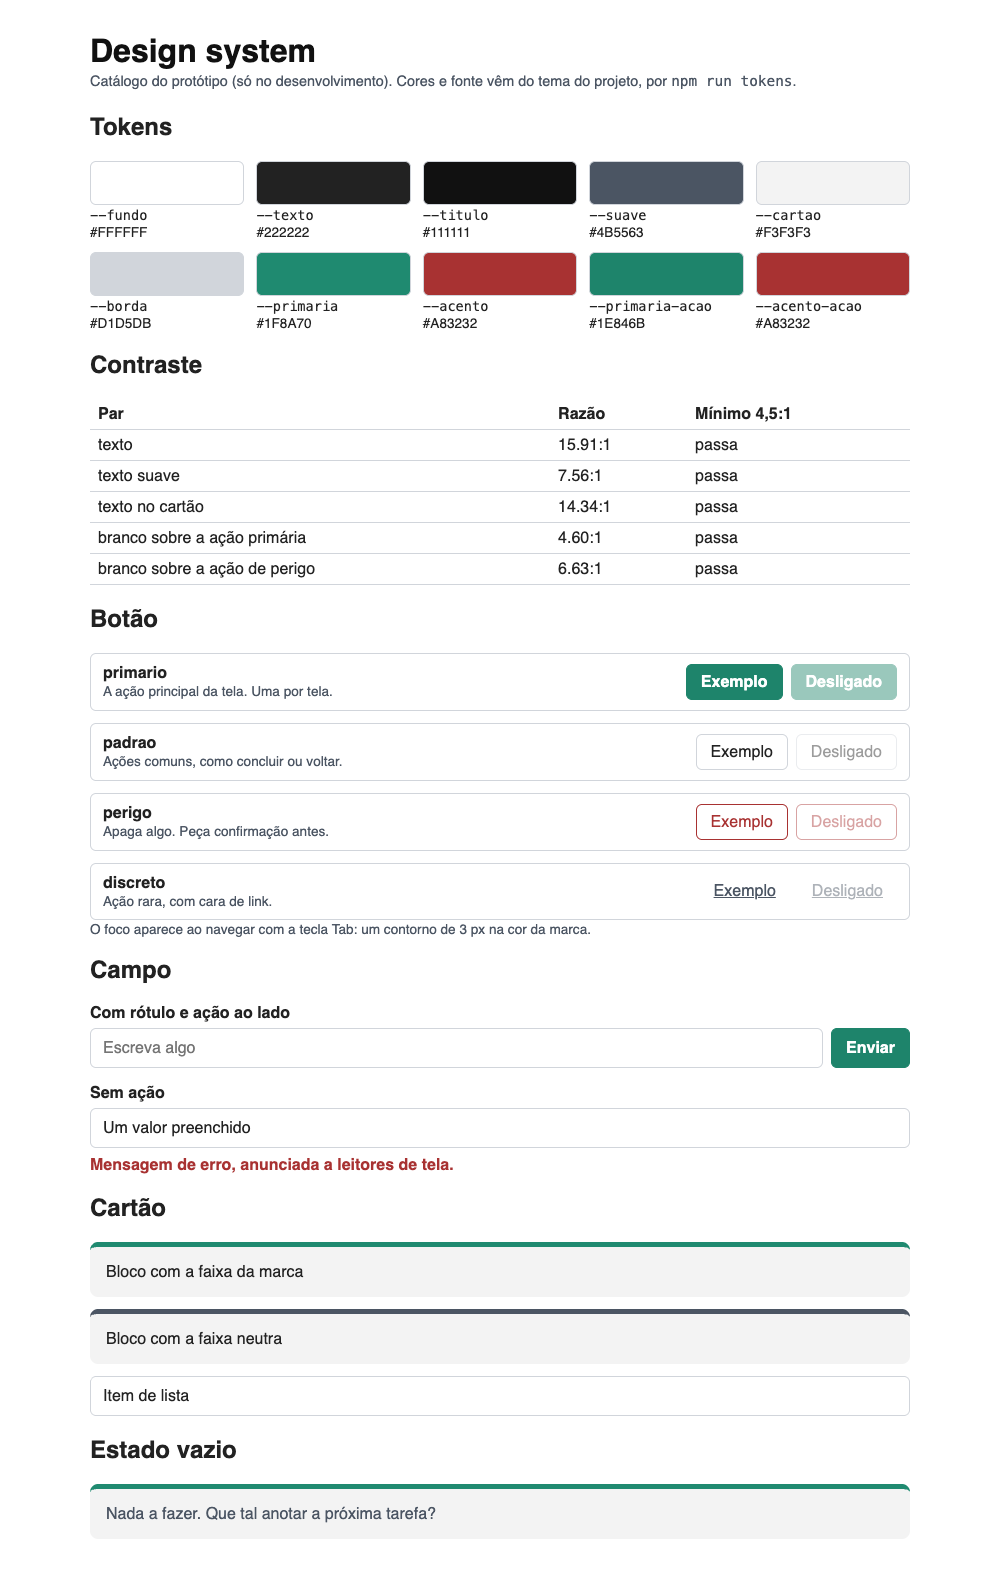
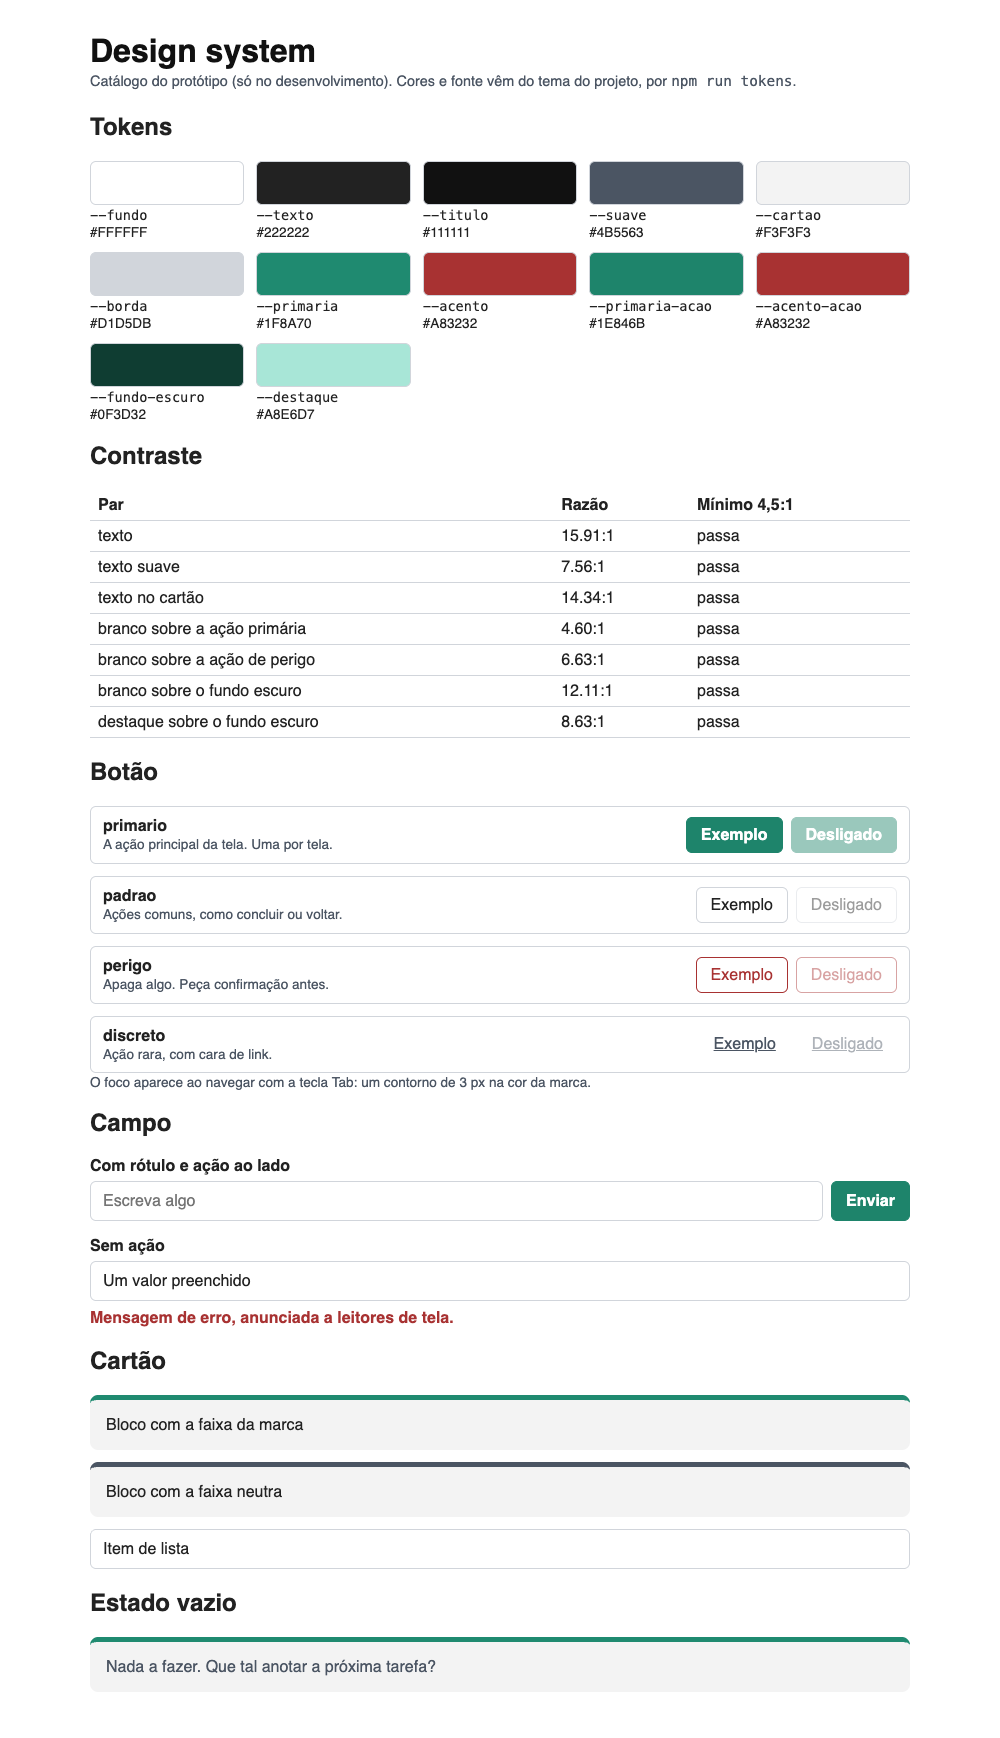
Design system do protótipo: documentação e as cores do tema nos slides e no carrossel
AGENTS.md e guias/design-system.md passam a sugerir o design system em todo
protótipo (tokens gerados do tema, componentes em src/ui/, catálogo /ds,
contraste e toque). O tema exemplo-todo declara fundoEscuro e destaque, que
viram tokens e o fundo verde dos slides e dos cards; o catálogo confere o
contraste desses pares.

diff --git a/tools/tema-tokens.js b/tools/tema-tokens.js
@@ -9,6 +9,8 @@
 //
 // Os tokens vêm de "colors" do tema (e "font"); o que o tema não declara usa um padrão. Para os botões preenchidos
 // (texto branco sobre a cor), a cor "de ação" é a do tema escurecida só até ter contraste de 4,5:1 com o branco.
+// Os slides e os carrosséis usam as mesmas cores do tema; "fundoEscuro" (fundo dos slides e cards escuros) e "destaque"
+// (links e detalhes sobre o escuro) também viram tokens, para o design system e os materiais ficarem alinhados.
 // Opcionalmente, o tema pode ter "prototipo": { "fundo": "FFFFFF", "suave": "4B5563" } para ajustar o que não tem
 // equivalente nos documentos.
 
@@ -81,6 +83,8 @@ const t = {
   cartao: hex(cores.calloutFill || cores.tableStripe || "F3F3F3"),
   borda: hex(cores.border || "D1D5DB"),
   fundo,
+  fundoEscuro: hex(cores.fundoEscuro || "000000"),
+  destaque: hex(cores.destaque || "FFFFFF"),
 };
 t.primariaAcao = escurecerAte(t.primaria, 4.5);
 t.acentoAcao = escurecerAte(t.acento, 4.5);
@@ -104,6 +108,9 @@ const css = `/* Gerado por tools/tema-tokens.js a partir do tema "${nomeDoTema}"
   --primaria-acao: #${t.primariaAcao};
   --acento-acao: #${t.acentoAcao};
   --sobre-acao: #ffffff;
+  /* Fundo escuro e cor de destaque sobre ele: os mesmos dos slides e dos carrosséis. */
+  --fundo-escuro: #${t.fundoEscuro};
+  --destaque: #${t.destaque};
 }
 `;
 
@@ -118,6 +125,8 @@ const pares = [
   ["branco sobre a cor de ação", "FFFFFF", t.primariaAcao],
   ["branco sobre a cor de perigo", "FFFFFF", t.acentoAcao],
   ["cor de perigo sobre o fundo", t.acentoAcao, t.fundo],
+  ["branco sobre o fundo escuro", "FFFFFF", t.fundoEscuro],
+  ["destaque sobre o fundo escuro", t.destaque, t.fundoEscuro],
 ];
 const ruins = pares.filter(([, a, b]) => contraste(a, b) < 4.5);
 

diff --git a/projetos/exemplo-todo/prototipo/src/ui/Catalogo.tsx b/projetos/exemplo-todo/prototipo/src/ui/Catalogo.tsx
@@ -4,7 +4,7 @@ import { Alerta, Botao, Campo, Cartao, EstadoVazio, type VarianteBotao } from ".
 // O catálogo do design system (só no desenvolvimento, em /ds): cada token e cada componente nos seus estados, como
 // documentação viva. Serve para ver a identidade do tema aplicada, conferir contraste e tirar prints.
 
-const TOKENS = ["fundo", "texto", "titulo", "suave", "cartao", "borda", "primaria", "acento", "primaria-acao", "acento-acao"] as const;
+const TOKENS = ["fundo", "texto", "titulo", "suave", "cartao", "borda", "primaria", "acento", "primaria-acao", "acento-acao", "fundo-escuro", "destaque"] as const;
 
 const VARIANTES: { id: VarianteBotao; uso: string }[] = [
   { id: "primario", uso: "A ação principal da tela. Uma por tela." },
@@ -28,6 +28,8 @@ const PARES: [string, string, string][] = [
   ["texto no cartão", "texto", "cartao"],
   ["branco sobre a ação primária", "#FFFFFF", "primaria-acao"],
   ["branco sobre a ação de perigo", "#FFFFFF", "acento-acao"],
+  ["branco sobre o fundo escuro", "#FFFFFF", "fundo-escuro"],
+  ["destaque sobre o fundo escuro", "destaque", "fundo-escuro"],
 ];
 
 export function Catalogo() {

diff --git a/projetos/exemplo-todo/prototipo/e2e/jornadas.spec.ts b/projetos/exemplo-todo/prototipo/e2e/jornadas.spec.ts
@@ -71,6 +71,6 @@ test("o catálogo do design system mostra tokens, contraste e componentes", asyn
   await expect(page.getByText("--primaria-acao")).toBeVisible();
   // Todo par de cores do catálogo passa no contraste mínimo.
   await expect(page.getByRole("cell", { name: "NÃO passa" })).toHaveCount(0);
-  await expect(page.getByRole("cell", { name: "passa", exact: true })).toHaveCount(5);
+  await expect(page.getByRole("cell", { name: "passa", exact: true })).toHaveCount(7);
   await expect(page.getByRole("button", { name: "Exemplo" })).toHaveCount(4);
 });

diff --git a/projetos/exemplo-todo/prototipo/src/tokens.css b/projetos/exemplo-todo/prototipo/src/tokens.css
@@ -15,4 +15,7 @@
   --primaria-acao: #1E846B;
   --acento-acao: #A83232;
   --sobre-acao: #ffffff;
+  /* Fundo escuro e cor de destaque sobre ele: os mesmos dos slides e dos carrosséis. */
+  --fundo-escuro: #0F3D32;
+  --destaque: #A8E6D7;
 }

diff --git a/AGENTS.md b/AGENTS.md
@@ -34,7 +34,7 @@ ideia/
 │   ├── iniciativa.txt, businessmodelcanvas.txt, 10-20-30.txt, pdi.txt, pitch.txt
 │   ├── tldr.txt              resumo (TL;DR): citação no topo do documento e apresentação curta
 │   └── divulgacao.txt        material de divulgação: carrossel de redes sociais, a partir do pitch e do resumo
-├── guias/                    [base] textos de apoio sobre como fazer bem uma coisa (ex.: pitch.md, slides.md, slides-zen-lessig.md, video-demonstracao.md e seguranca.md)
+├── guias/                    [base] textos de apoio sobre como fazer bem uma coisa (ex.: pitch.md, slides.md, slides-zen-lessig.md, video-demonstracao.md, seguranca.md e design-system.md)
 ├── temas/                    [base e conteúdo] identidade visual; uma pasta por tema
 │   └── <tema>/               tema.json (cores, fontes, logo, rodapé, opções) e, se houver, base.docx, referencia.pdf e slides.css
 │       neutro (base dos temas simples), generico (padrão), wildtech (exemplo de tema com marca),
@@ -120,7 +120,7 @@ Passos:
    - título da iniciativa;
    - pessoa responsável, com nome e sobrenome (e as outras pessoas envolvidas, se houver);
    - período de acompanhamento e data limite (pode ser "A definir");
-   - se o projeto é um **software** e precisa de um **protótipo** (artefato persistente; ver "Protótipos"). Se sim, proponha a stack padrão e confirme;
+   - se o projeto é um **software** e precisa de um **protótipo** (artefato persistente; ver "Protótipos"). Se sim, proponha a stack padrão, **com o design system** (ver "Design system do protótipo"), e confirme;
    - projeto Jira ou repositório GitHub relacionado, se houver (ver "Integrações opcionais").
 7. **Pedir o material de apoio**, se existir: textos, anotações, transcrições, prints e fotos. Peça para a pessoa colocá-lo em `projetos/<projeto>/apoio/` ou colar na conversa. Avise que **segredos** (senhas, chaves, tokens) **não** devem ser colados nem guardados, e que dados pessoais ou confidenciais precisam de cuidado (ver "Segurança e privacidade").
 8. **Ler o material, entrevistar e escrever o primeiro rascunho.** As imagens são **insumo**: leia o conteúdo delas e transforme em texto no `.md`. O documento gerado não leva imagens; a imagem original fica em `apoio/` e é citada em "Documentos de Apoio".
@@ -264,6 +264,7 @@ Use esta stack, a menos que a pessoa ou o `AGENTS-extra.md` decida outra. Regist
 | Testes | **Vitest**, e `tsc --noEmit` para os tipos | As regras do negócio e a API são o que mais precisa de teste |
 | Jornadas | **Playwright**, usando o Chrome já instalado (`channel: "chrome"`) | Repetem o fluxo na tela. Scripts `test:e2e`, `demo` (**grava a jornada em um vídeo narrado**, com legendas, cursor e voz, em `demo/demo.mp4`; `demo:vertical` faz a versão **9:16** de 1080x1920, e `demo:todos` as duas) e `capturas` (refaz os prints dos slides; `capturas:mobile` os refaz com a tela de um celular). A narração vem de `e2e/narracao.ts`; a voz é um áudio seu em `narracao/<trecho>.wav`, a voz do macOS ou, sem nenhuma, só legendas. Montado com o `ffmpeg`. Sobem a própria API e a própria interface, em portas e com um banco só deles (3101, 5273 e `data/e2e.db`) |
 | Desenvolvimento | `concurrently` sobe a API (porta 3001) e a interface (porta 5173) | Scripts: `dev`, `dev:api`, `dev:web`, `build`, `typecheck` e `test` |
+| Design system | **Tokens gerados do tema** (`src/tokens.css`, por `npm run tokens`) e **componentes** em `src/ui/` | Sugestão padrão: as cores e a fonte vêm do tema do projeto, as mesmas dos documentos, dos slides e do carrossel. Ver "Design system do protótipo" |
 
 As portas da API e da interface podem ser trocadas por variáveis de ambiente (`PORT`, `API_URL` e `WEB_PORT`), para as jornadas não atrapalharem quem está com o `npm run dev` aberto. Sugeridos, a validar caso a caso: ESLint, Prettier e integração contínua (por exemplo, GitHub Actions).
 
@@ -282,6 +283,17 @@ O protótipo existe para **ser jogado fora ou substituído**, então a arquitetu
 
 - **IA atrás de uma interface**, com uma versão **simulada** por regras no protótipo: nenhum dado vai a um modelo de verdade, e a pessoa aceita ou ignora a sugestão.
 - **Facilite a migração** para a plataforma de destino: chaves **UUID**, estados e categorias como **enumerações**, consultas simples com filtro e paginação, a noção de papel e de dono do registro desde o início e poucas chamadas, grandes, em vez de muitas pequenas.
+
+### Design system do protótipo
+
+Todo protótipo **já nasce com um design system pequeno**, como sugestão padrão (a pessoa pode dispensá-lo, e o `AGENTS-extra.md` pode trocá-lo). O `exemplo-todo` é o exemplo, e o `guias/design-system.md` explica o porquê e o passo a passo.
+
+- **O tema é a fonte das cores e da fonte.** O `src/tokens.css` é **gerado** do tema do projeto (`npm run tokens`, que usa `tools/tema-tokens.js`) e **não se edita à mão**; `npm run tokens:conferir`, que o `npm run build` já roda, falha se ele estiver desatualizado. Trocar de marca é trocar o tema e gerar de novo.
+- **O tema também dita os materiais:** `fundoEscuro` e `destaque` (no `tema.json`) são o fundo dos slides e dos cards escuros e a cor dos links sobre ele, e viram tokens do protótipo. Sem isso, saem preto e branco. Se o projeto não tem tema, crie um tema simples antes (ver "Temas").
+- **Componentes em `src/ui/`**, só com os tokens: `Botao`, `Campo`, `Cartao`, `EstadoVazio` e `Alerta`. As telas usam esses componentes, sem `<button>` solto nem cor escrita à mão. **Crie um componente só quando uma tela precisar dele.**
+- **Acessibilidade:** contraste de pelo menos 4,5:1 (o gerador avisa e, nos botões preenchidos, escurece a cor do tema só até chegar lá), foco visível, rótulo sempre visível no campo, erro anunciado a leitores de tela e alvo de toque de pelo menos 44 px no celular.
+- **Catálogo (`/ds`)**, só no desenvolvimento: mostra os tokens, o contraste dos pares de cores e os componentes nos seus estados. Uma jornada do Playwright confere o contraste.
+- **O que não é:** uma biblioteca para manter (o protótipo existe para ser jogado fora) nem o design system da plataforma de destino, que pode ser outro. O protótipo mostra a **intenção** (cores, estados, contraste e toque).
 
 ### Dados e repositório
 
@@ -303,7 +315,7 @@ O protótipo roda sobre o Node e sobre pacotes de terceiros, e a versão de cada
 
 ### README do protótipo
 
-Todo protótipo tem um `README.md` com, nesta ordem: **como rodar** (comandos e portas), **as jornadas** (o que cada comando do Playwright faz), o **vídeo de demonstração** (se houver), **o que o protótipo valida**, **o que ele não valida**, **arquitetura** (a tabela das camadas), **dados de exemplo** (quem mostra o quê), **segurança e versões** (a versão do Node testada e a data, e o resultado do `verificar`) e **pendências conhecidas**. Diga no topo que **todos os dados são fictícios**.
+Todo protótipo tem um `README.md` com, nesta ordem: **como rodar** (comandos e portas), **as jornadas** (o que cada comando do Playwright faz), o **vídeo de demonstração** (se houver), **o que o protótipo valida**, **o que ele não valida**, **arquitetura** (a tabela das camadas), **design system** (os tokens do tema, os componentes e o catálogo), **dados de exemplo** (quem mostra o quê), **segurança e versões** (a versão do Node testada e a data, e o resultado do `verificar`) e **pendências conhecidas**. Diga no topo que **todos os dados são fictícios**.
 
 ### Vídeo de demonstração (opcional)
 
@@ -394,7 +406,7 @@ O `temas/generico/tema.json` é o modelo de tema completo e o tema **padrão**. 
 | `pageMarginTop` | margem do topo do pdf, em mm | `22` |
 | `estilo` | estilo das apresentações: `"padrao"` (slides de título e conteúdo) ou `"zen-lessig"` (um slide, uma ideia: o slide sem layout vira frase, a capa é escura). Ver `guias/slides.md` | `"padrao"` |
 | `numerarSlides` | mostra o número do slide no canto inferior esquerdo (tela e PDF); útil para apontar ajustes. Pode ir só em `ajustes` do `projeto.json` | `false` |
-| `fundoEscuro` e `destaque` (dentro de `colors`) | cor dos slides e dos cards escuros e cor dos **links** sobre eles, nas apresentações e nos carrosséis (nos slides claros, os links usam `primary`; em todos são sublinhados). | `000000` e `FFFFFF` |
+| `fundoEscuro` e `destaque` (dentro de `colors`) | cor dos slides e dos cards escuros e cor dos **links** sobre eles, nas apresentações e nos carrosséis (nos slides claros, os links usam `primary`; em todos são sublinhados). O protótipo também os lê, como tokens (ver "Design system do protótipo") | `000000` e `FFFFFF` |
 
 ### Criando um tema a partir de arquivos existentes
 

diff --git a/README.md b/README.md
@@ -54,7 +54,7 @@ Se o Chrome não for encontrado, defina a variável `CHROME` com o caminho do ex
 | `AGENTS.md` | Instruções para o agente de IA: onboarding, regras, formato do Markdown, temas e geração |
 | `AGENTS-extra.example.md` | Modelo do arquivo complementar com o que é específico de você ou da sua organização |
 | `roteiros/` | Roteiros: iniciativa, Business Model Canvas, 10-20-30, PDI, pitch e resumo (TL;DR) |
-| `guias/` | Guias de apoio: como escrever um pitch, como escrever slides (dois estilos, imagens e cores sugeridas; o estilo Presentation Zen e método Lessig tem guia próprio) como gerar um vídeo de demonstração narrado de um protótipo e como cuidar de segurança, privacidade e versões (segredos, dados pessoais, Node e pacotes) |
+| `guias/` | Guias de apoio: como escrever um pitch, como escrever slides (dois estilos, imagens e cores sugeridas; o estilo Presentation Zen e método Lessig tem guia próprio) como gerar um vídeo de demonstração narrado de um protótipo como cuidar de segurança, privacidade e versões (segredos, dados pessoais, Node e pacotes) e como montar o design system de um protótipo a partir do tema |
 | `temas/generico/` | Tema padrão (logo, fontes, cabeçalho e rodapé de exemplo) |
 | `temas/neutro/` e `temas/exemplo-leve/` | A base dos temas simples e um exemplo genérico de tema só com cores e logo |
 | `temas/exemplo-cc/` | Tema simples do projeto `exemplo-cc`, com o logo e as cores da Creative Commons (só como ilustração) |
@@ -79,7 +79,7 @@ Os roteiros são arquivos de texto (`roteiros/<nome>.txt`) com as seções, uma 
 
 ## Protótipos
 
-Quando o projeto é um **software**, o template recomenda um **protótipo** para validar o fluxo antes de construir na plataforma de destino. A stack padrão é **React + Vite + TypeScript**, uma **API Node** e **SQLite** (`node:sqlite`, embutido no Node 22.13 ou mais novo), com **Vitest** nos testes. As regras do negócio ficam em funções puras, separadas do banco e da tela, para trocar o banco sem mexer nas telas. **Só dados fictícios**, e o banco local não vai para o git. **Nenhum segredo de serviço externo é guardado em arquivo** (nem em `.env`), e `npm run verificar` confere segredos e versões do Node e dos pacotes (veja `guias/seguranca.md`). O protótipo fica em `projetos/<projeto>/prototipo/`, registrado no `projeto.json` como artefato. O `AGENTS.md` ("Protótipos") traz a definição completa, e o seu agente pode criar o protótipo quando você pedir. O protótipo também pode gerar um **vídeo de demonstração narrado**, com legendas e a sua voz (ou uma voz sintética), pelo `npm run demo`; o guia `guias/video-demonstracao.md` explica, inclusive o que fazer no macOS, no Windows e no Linux. Para ver um funcionando, rode o exemplo: `cd projetos/exemplo-todo/prototipo`, `npm install` e `npm run dev`. A stack é um padrão: se você preferir outra, registre no `AGENTS-extra.md`.
+Quando o projeto é um **software**, o template recomenda um **protótipo** para validar o fluxo antes de construir na plataforma de destino. A stack padrão é **React + Vite + TypeScript**, uma **API Node** e **SQLite** (`node:sqlite`, embutido no Node 22.13 ou mais novo), com **Vitest** nos testes. As regras do negócio ficam em funções puras, separadas do banco e da tela, para trocar o banco sem mexer nas telas. **Só dados fictícios**, e o banco local não vai para o git. O protótipo já nasce com um **design system pequeno**: as cores e a fonte vêm do tema do projeto (as mesmas dos documentos, dos slides e do carrossel), com poucos componentes e um catálogo em `/ds`; o guia `guias/design-system.md` explica. **Nenhum segredo de serviço externo é guardado em arquivo** (nem em `.env`), e `npm run verificar` confere segredos e versões do Node e dos pacotes (veja `guias/seguranca.md`). O protótipo fica em `projetos/<projeto>/prototipo/`, registrado no `projeto.json` como artefato. O `AGENTS.md` ("Protótipos") traz a definição completa, e o seu agente pode criar o protótipo quando você pedir. O protótipo também pode gerar um **vídeo de demonstração narrado**, com legendas e a sua voz (ou uma voz sintética), pelo `npm run demo`; o guia `guias/video-demonstracao.md` explica, inclusive o que fazer no macOS, no Windows e no Linux. Para ver um funcionando, rode o exemplo: `cd projetos/exemplo-todo/prototipo`, `npm install` e `npm run dev`. A stack é um padrão: se você preferir outra, registre no `AGENTS-extra.md`.
 
 ## Como contribuir
 

diff --git a/guias/design-system.md b/guias/design-system.md
@@ -1,0 +1,55 @@
+# Guia: design system do protótipo
+
+Todo protótipo nasce com um **design system pequeno**: as cores e a fonte vêm do **tema** do projeto, e as telas são montadas com poucos componentes. Este guia complementa a seção "Protótipos" do `AGENTS.md` e usa como exemplo o `projetos/exemplo-todo/prototipo/`. Ele é uma **sugestão padrão** do template: a pessoa pode dispensá-lo, e o `AGENTS-extra.md` pode trocar por outro.
+
+## Por que ter um
+
+- **Coerência.** Documento, slides, carrossel e protótipo têm a mesma cara, porque leem as mesmas cores do mesmo tema.
+- **Trocar de marca sem reescrever.** Para outra identidade, troca-se o tema e gera-se de novo. Os componentes não mudam.
+- **Acessibilidade desde o começo.** O contraste é conferido na geração, e o foco e o alvo de toque já vêm resolvidos nos componentes.
+- **Migração mais barata.** O protótipo mostra à plataforma de destino quais componentes e quais estados existem.
+
+## As três camadas
+
+| Camada | Onde | O que faz |
+| :--- | :--- | :--- |
+| **Identidade** | `temas/<tema>/tema.json` | Cores, fonte e logo. É a **única fonte**: vale para documento, slides, carrossel e protótipo |
+| **Tokens** | `src/tokens.css` | As variáveis CSS (`--primaria`, `--texto`, `--fundo-escuro`...), **geradas do tema** por `npm run tokens`. Não se edita à mão |
+| **Componentes** | `src/ui/` | `Botao`, `Campo`, `Cartao`, `EstadoVazio` e `Alerta`, escritos só com os tokens |
+
+O CSS de layout da página (`src/styles.css`) fica separado: só grade e margens, sem cor escrita à mão.
+
+## Como usar
+
+1. **O tema é o ponto de partida.** Se o projeto ainda não tem um tema, crie um tema simples (ver "Temas" no `AGENTS.md`), com as cores da marca. Para os slides e o carrossel, declare também `fundoEscuro` e `destaque` (o fundo escuro e a cor dos links sobre ele): sem isso, saem preto e branco.
+2. **Gere os tokens:** `npm run tokens`. O arquivo é versionado, para o protótipo rodar sem precisar das ferramentas do repositório. `npm run tokens:conferir` (que o `npm run build` já roda) falha se ele ficar desatualizado em relação ao tema.
+3. **Monte as telas com `src/ui/`.** Nada de `<button>` solto nem de cor escrita à mão nas telas.
+4. **Crie um componente só quando uma tela precisar dele**, e escreva-o só com tokens. É um protótipo: o suficiente para ser coerente, e não uma biblioteca para manter.
+5. **Olhe o catálogo:** com o `npm run dev`, abra `/ds`. Ele mostra os tokens, o contraste de cada par de cores e os componentes nos seus estados. Só existe no desenvolvimento (o `build` não o inclui).
+
+## O contraste
+
+Texto precisa de pelo menos **4,5:1** com o fundo. O gerador de tokens confere os pares e avisa quando algum fica abaixo. Para os botões preenchidos (texto branco sobre a cor), ele **escurece a cor do tema só até ter 4,5:1**: a marca nos documentos e nos slides continua a mesma, e o botão passa. No `exemplo-todo`, a cor `#1F8A70` (4,26:1) vira `#1E846B` (4,60:1) no botão.
+
+## O que cada componente garante
+
+- **Foco visível** em tudo que se opera (um contorno de 3 px na cor da marca).
+- **Alvo de toque** de pelo menos 44 px no celular ou em tela estreita.
+- **Rótulo sempre visível** no campo; o placeholder não o substitui.
+- **Erro anunciado** a leitores de tela (`role="alert"`).
+- **Botão com variante:** `primario` (a ação principal, uma por tela), `padrao`, `perigo` (apaga algo, com confirmação) e `discreto`.
+
+## O que o design system não é
+
+- Não é uma biblioteca para manter: o protótipo existe para ser jogado fora.
+- Não substitui o design system da plataforma de destino, que pode ser outro. O que ele entrega é a **intenção** (cores, estados, regras de contraste e de toque), e não o código final.
+- Não resolve desenho de interface. Quem decide como a tela se organiza continua sendo o pitch (o esboço de traço grosso).
+
+## Checklist
+
+- [ ] O protótipo tem um tema (e `fundoEscuro` e `destaque`, se vai ter slides ou carrossel)?
+- [ ] `npm run tokens:conferir` passa?
+- [ ] Nenhuma cor nem fonte escrita à mão fora de `tokens.css`?
+- [ ] Os pares de cores do catálogo (`/ds`) passam no contraste?
+- [ ] O foco aparece ao navegar com a tecla Tab?
+- [ ] Os botões têm 44 px de altura no celular?

diff --git a/projetos/exemplo-todo/prototipo/README.md b/projetos/exemplo-todo/prototipo/README.md
@@ -73,7 +73,7 @@ O protótipo tem um design system pequeno, em duas partes, e **a identidade vem 
 
 | Parte | Onde | O que faz |
 | :--- | :--- | :--- |
-| **Tokens** | `src/tokens.css` | Cores e fonte, **gerados do tema** por `npm run tokens` (`tools/tema-tokens.js`). Não se edita à mão |
+| **Tokens** | `src/tokens.css` | Cores e fonte, **gerados do tema** por `npm run tokens` (`tools/tema-tokens.js`). Não se edita à mão. Incluem o verde escuro e o destaque que os slides e o carrossel usam como fundo e cor de link |
 | **Componentes** | `src/ui/` | `Botao` (variantes padrão, primário, perigo e discreto), `Campo` (rótulo, campo e ação ao lado), `Cartao` (bloco e item), `EstadoVazio` e `Alerta`. Só usam os tokens: nenhuma cor escrita à mão |
 | **Layout** | `src/styles.css` | Só a organização da página (grade e margens) |
 
